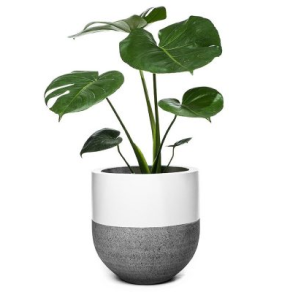
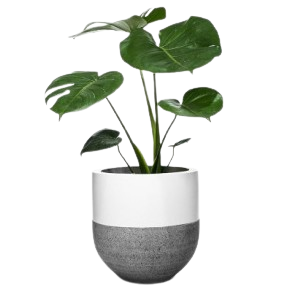
error correction

diff --git a/css/style.css b/css/style.css
@@ -57,10 +57,11 @@
 }
 
 /* PROMO */
+
 .promo {
   display: flex;
   gap: 28px;
-  padding-bottom: 138px;
+  margin-bottom: 138px;
 }
 .promo-card img {
   width: 400px;
@@ -70,10 +71,11 @@
   display: flex;
   flex-direction: column;
   align-items: flex-end;
+  margin-right: 30px;
 }
 .promo-card {
   display: flex;
-  background: #ffffff;
+  background: #fbfbfb;
   align-items: center;
 }
 
@@ -84,8 +86,7 @@
   font-size: 18px;
   line-height: 24px;
   text-transform: uppercase;
-  padding-bottom: 9px;
-  width: 50%;
+  margin-bottom: 9px;
 }
 
 .promo-content p {
@@ -94,8 +95,7 @@
   font-family: "Cera Pro Regular";
   font-size: 14px;
   line-height: 24px;
-  padding-bottom: 25px;
-  width: 80%;
+  margin-bottom: 25px;
 }
 
 .btn {
@@ -119,8 +119,8 @@
   text-align: center;
   font-family: "Cera Pro Bold";
   font-size: 30px;
-  line-height: 16px;
-  padding-bottom: 15px;
+  /* line-height: 16px; */
+  margin-bottom: 15px;
 }
 
 .blog-subtitle {
@@ -129,7 +129,7 @@
   font-family: "Cera Pro Regular";
   font-size: 14px;
   line-height: 24px;
-  padding-bottom: 35px;
+  margin-bottom: 35px;
 }
 
 .blog-list {
@@ -137,12 +137,13 @@
   gap: 43px;
 }
 
-/* .blog-card {
-} */
+.blog-card {
+  background: #fbfbfb;
+}
 
 .blog-card img {
-  width: 368px;
-  height: 195px;
+  max-width: none;
+  width: 268px;
   margin-bottom: 9px;
 }
 
@@ -180,6 +181,7 @@
 .blog-card a.active {
   color: #46a358;
 }
-.pad {
-  margin-left: 15px;
+.blog-text {
+  padding-bottom: 13px;
+  padding-left: 15px;
 }

diff --git a/index.html b/index.html
@@ -92,7 +92,7 @@
         <ul class="blog-list">
           <li class="blog-card">
             <img src="./img/01.png" alt="blog" />
-            <div class="pad">
+            <div class="blog-text">
               <span class="date">September 12 | Read in 6 minutes</span>
               <h4>Cactus & Succulent Care Tips</h4>
               <p>
@@ -104,7 +104,7 @@
 
           <li class="blog-card">
             <img src="./img/02.png" alt="blog" />
-            <div class="pad">
+            <div class="blog-text">
               <span class="date">September 13 | Read in 2 minutes</span>
               <h4>Top 10 Succulents for Your Home</h4>
               <p>Best in hanging baskets. Prefers medium to high light.</p>
@@ -114,7 +114,7 @@
 
           <li class="blog-card">
             <img src="./img/03.png" alt="blog" />
-            <div class="pad">
+            <div class="blog-text">
               <span class="date">September 15 | Read in 3 minutes</span>
               <h4>Cacti & Succulent Care Tips</h4>
               <p>
@@ -126,7 +126,7 @@
 
           <li class="blog-card">
             <img src="./img/04.png" alt="blog" />
-            <div class="pad">
+            <div class="blog-text">
               <span class="date">September 15 | Read in 2 minutes</span>
               <h4>Best Houseplants Room By Room</h4>
               <p>The benefits of houseplants are endless. In addition to..</p>
